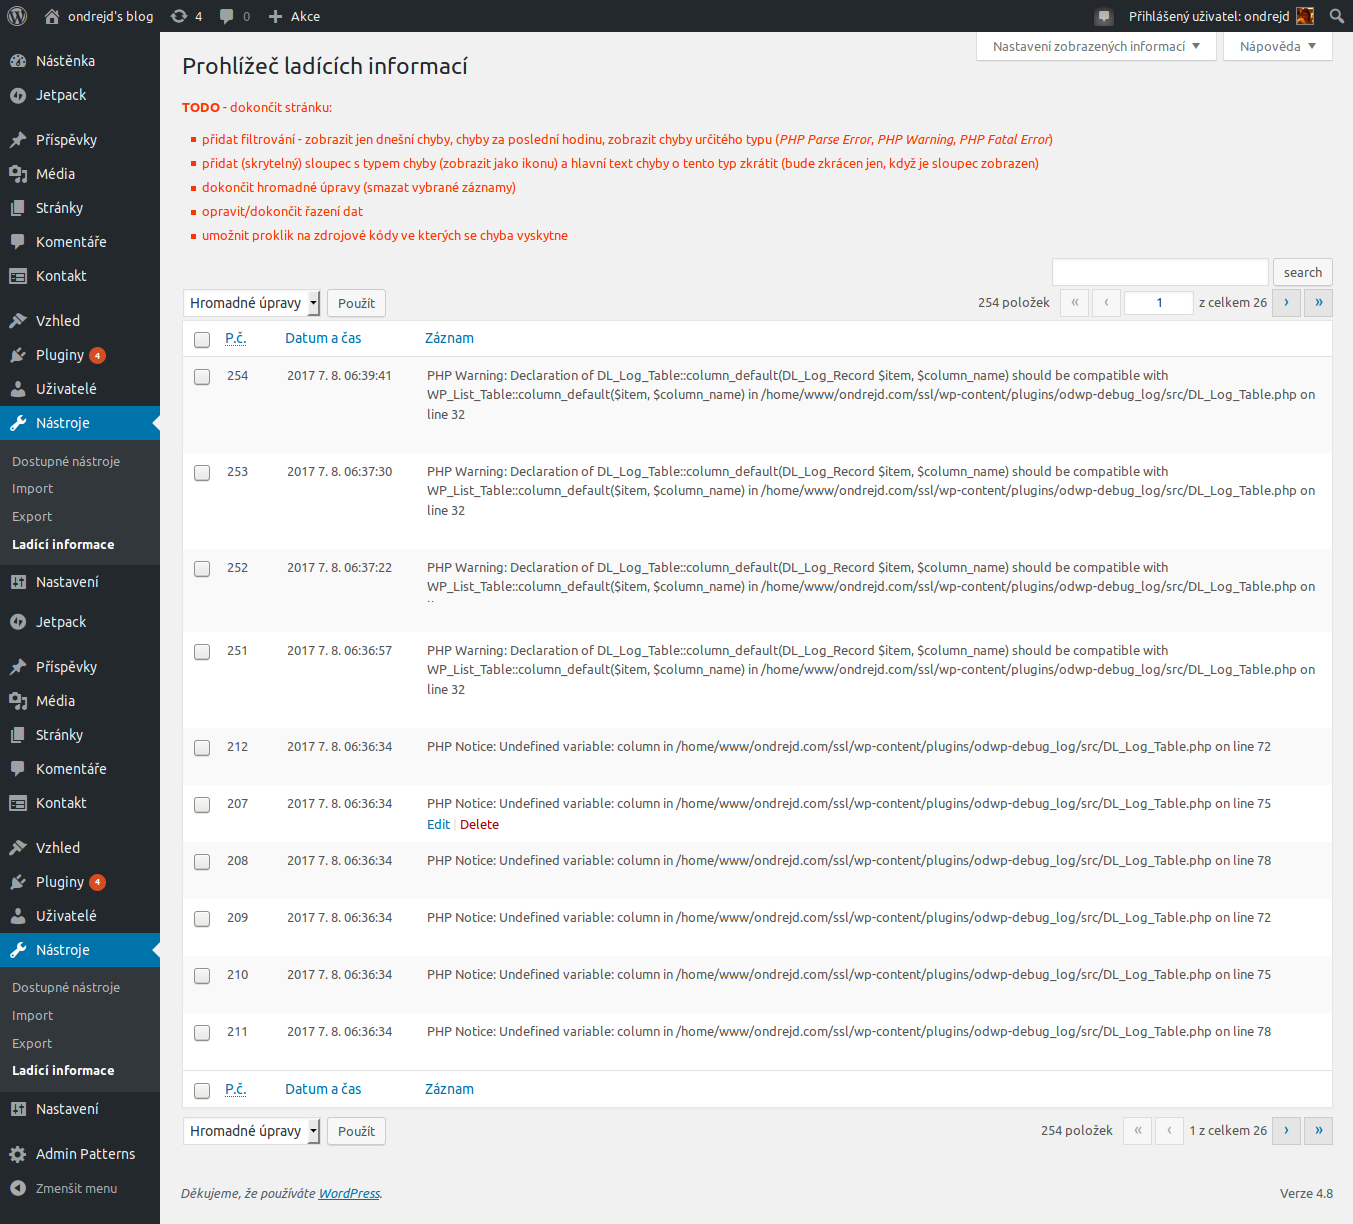
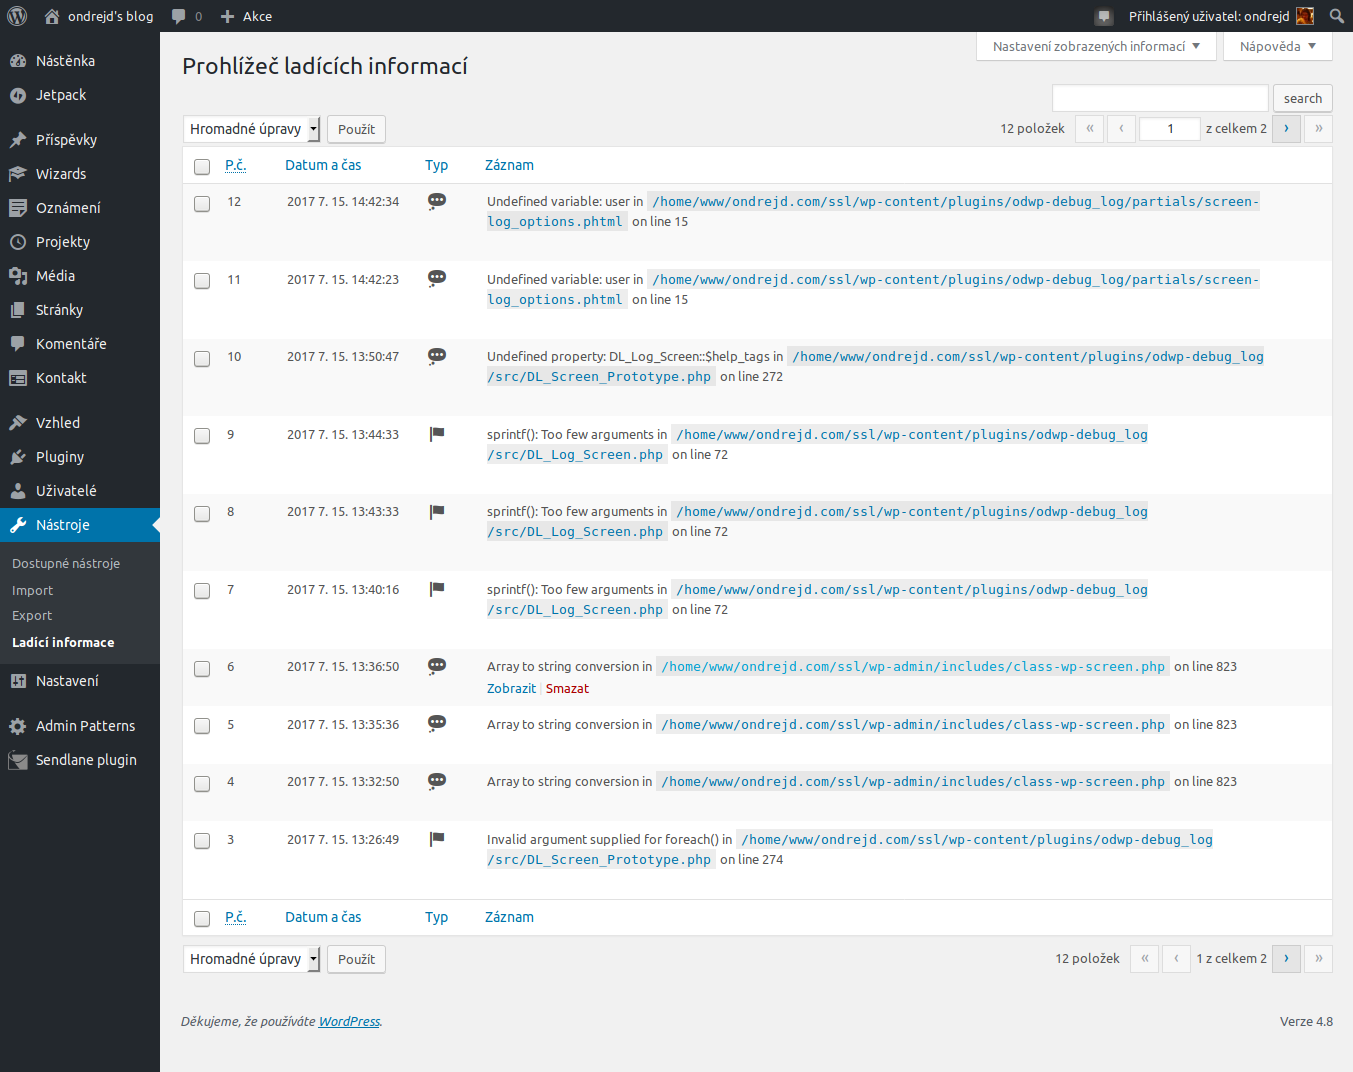
Changed some about screen options for the main log page.

diff --git a/src/DL_Log_Screen.php b/src/DL_Log_Screen.php
@@ -72,6 +72,11 @@ class DL_Log_Screen extends DL_Screen_Prototype {
         );
 
         // Specify screen options
+        $this->options[$this->slug . '-rows_per_page'] = [
+            'label'   => __( 'Počet záznamů na stránku', DL_SLUG ),
+            'default' => 10,
+            'option'  => $this->slug . '-rows_per_page',
+        ];
         $this->options[$this->slug . '-show_icons'] = [
             'label'   => __( 'Zobrazit typ záznamu jako ikonu?', DL_SLUG ),
             'default' => true,
@@ -120,6 +125,12 @@ class DL_Log_Screen extends DL_Screen_Prototype {
         $user   = get_current_user_id();
 
         // Option for showing icons in record type column
+        $rows_per_page_key = $this->slug . '-rows_per_page';
+        $rows_per_page = get_user_meta( $user, $rows_per_page_key, true );
+        if( strlen( $rows_per_page ) == 0){
+            $rows_per_page = $screen->get_option( $rows_per_page, 'default' );
+        }
+
         $show_icons_key = $this->slug . '-show_icons';
         $show_icons = get_user_meta( $user, $show_icons_key, true );
         if( strlen( $show_icons ) == 0 ){
@@ -133,6 +144,7 @@ class DL_Log_Screen extends DL_Screen_Prototype {
         }
 
         return [
+            'rows_per_page' => (int) $rows_per_page,
             'show_icons' => (bool) $show_icons,
             'show_file_links' => (bool) $show_file_links,
         ];
@@ -156,6 +168,9 @@ class DL_Log_Screen extends DL_Screen_Prototype {
                 filter_input( INPUT_POST, $this->slug . '-submit' ) &&
                 (bool) wp_verify_nonce( filter_input( INPUT_POST, $this->slug . '-nonce' ) ) === true
         ) {
+            // Rows per page
+            $rows_per_page = filter_input( INPUT_POST, $this->slug . '-rows_per_page' );
+            update_user_meta( $user, $this->slug . '-rows_per_page', ( int ) $rows_per_page );
             // Show icons
             $show_icons = filter_input( INPUT_POST, $this->slug . '-show_icons' );
             update_user_meta( $user, $this->slug . '-show_icons', ( strtolower( $show_icons ) == 'on' ) ? 1 : 0 );
